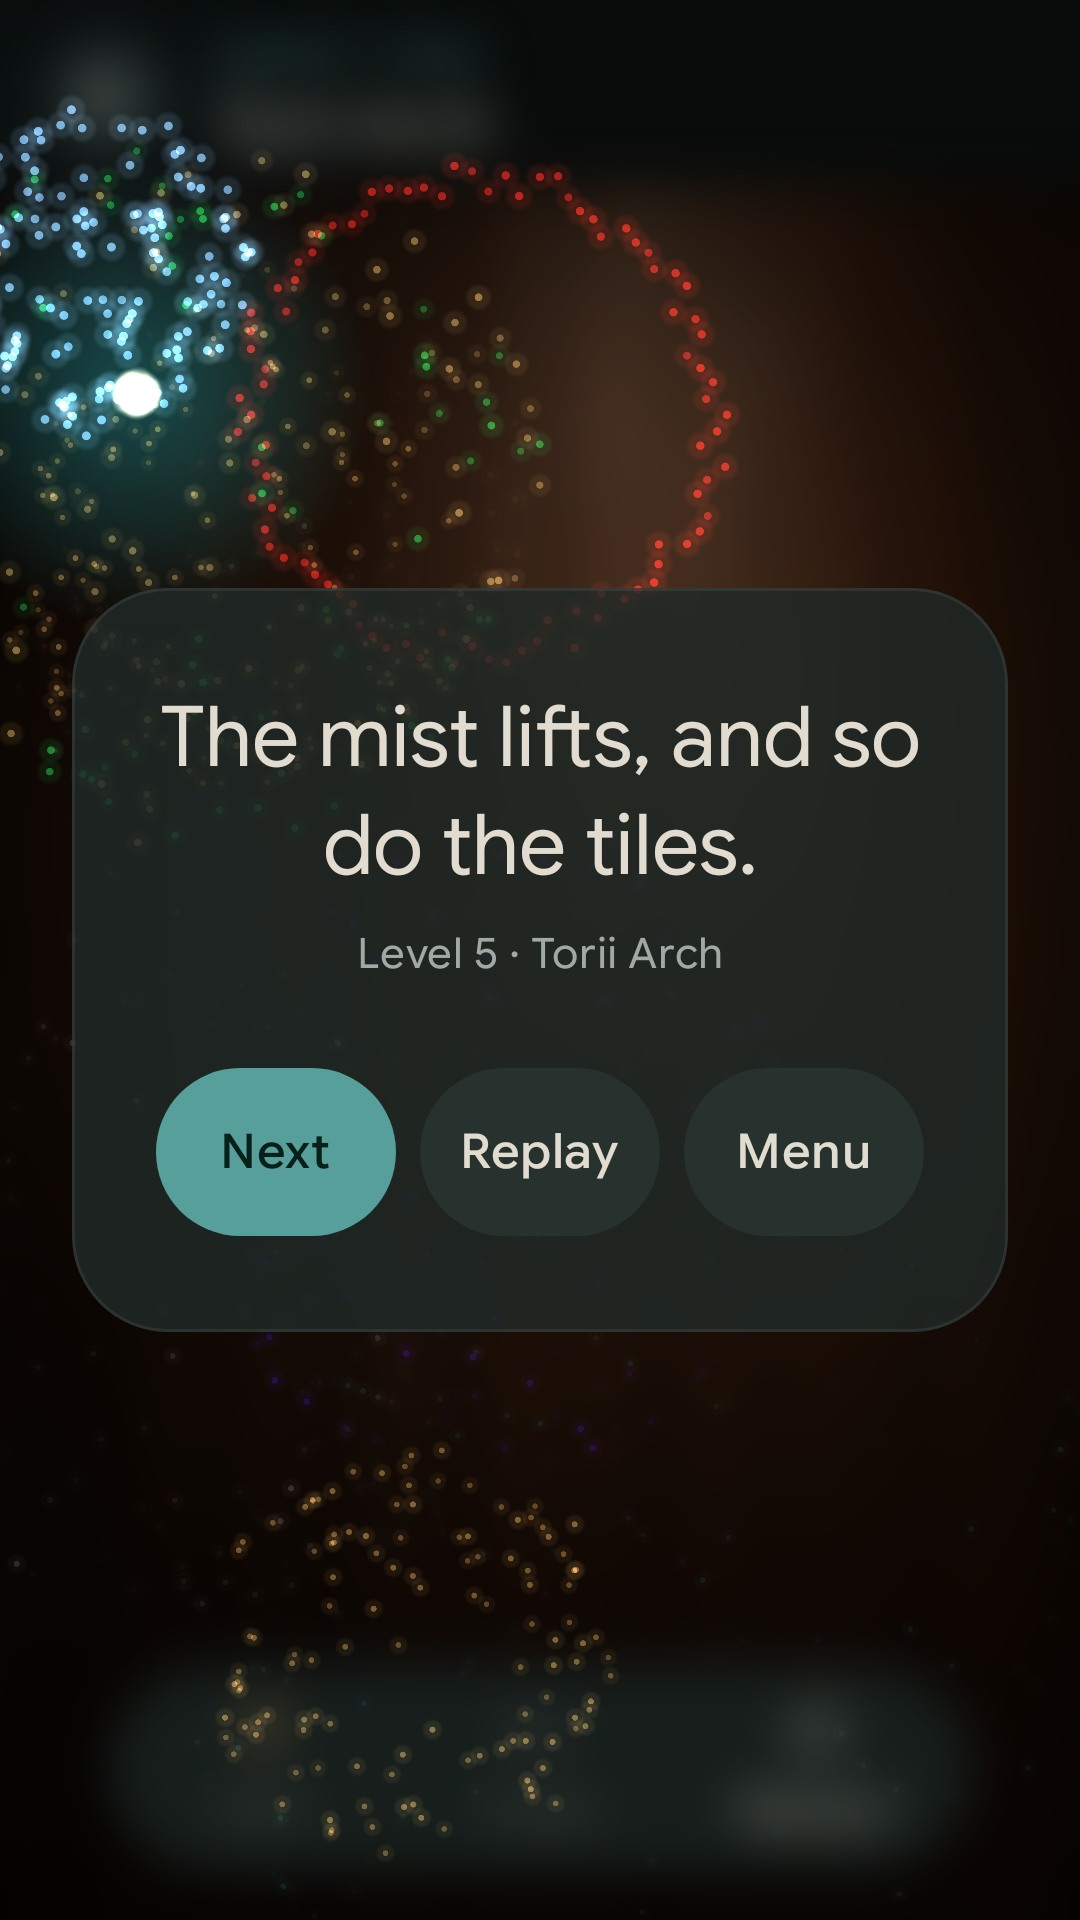
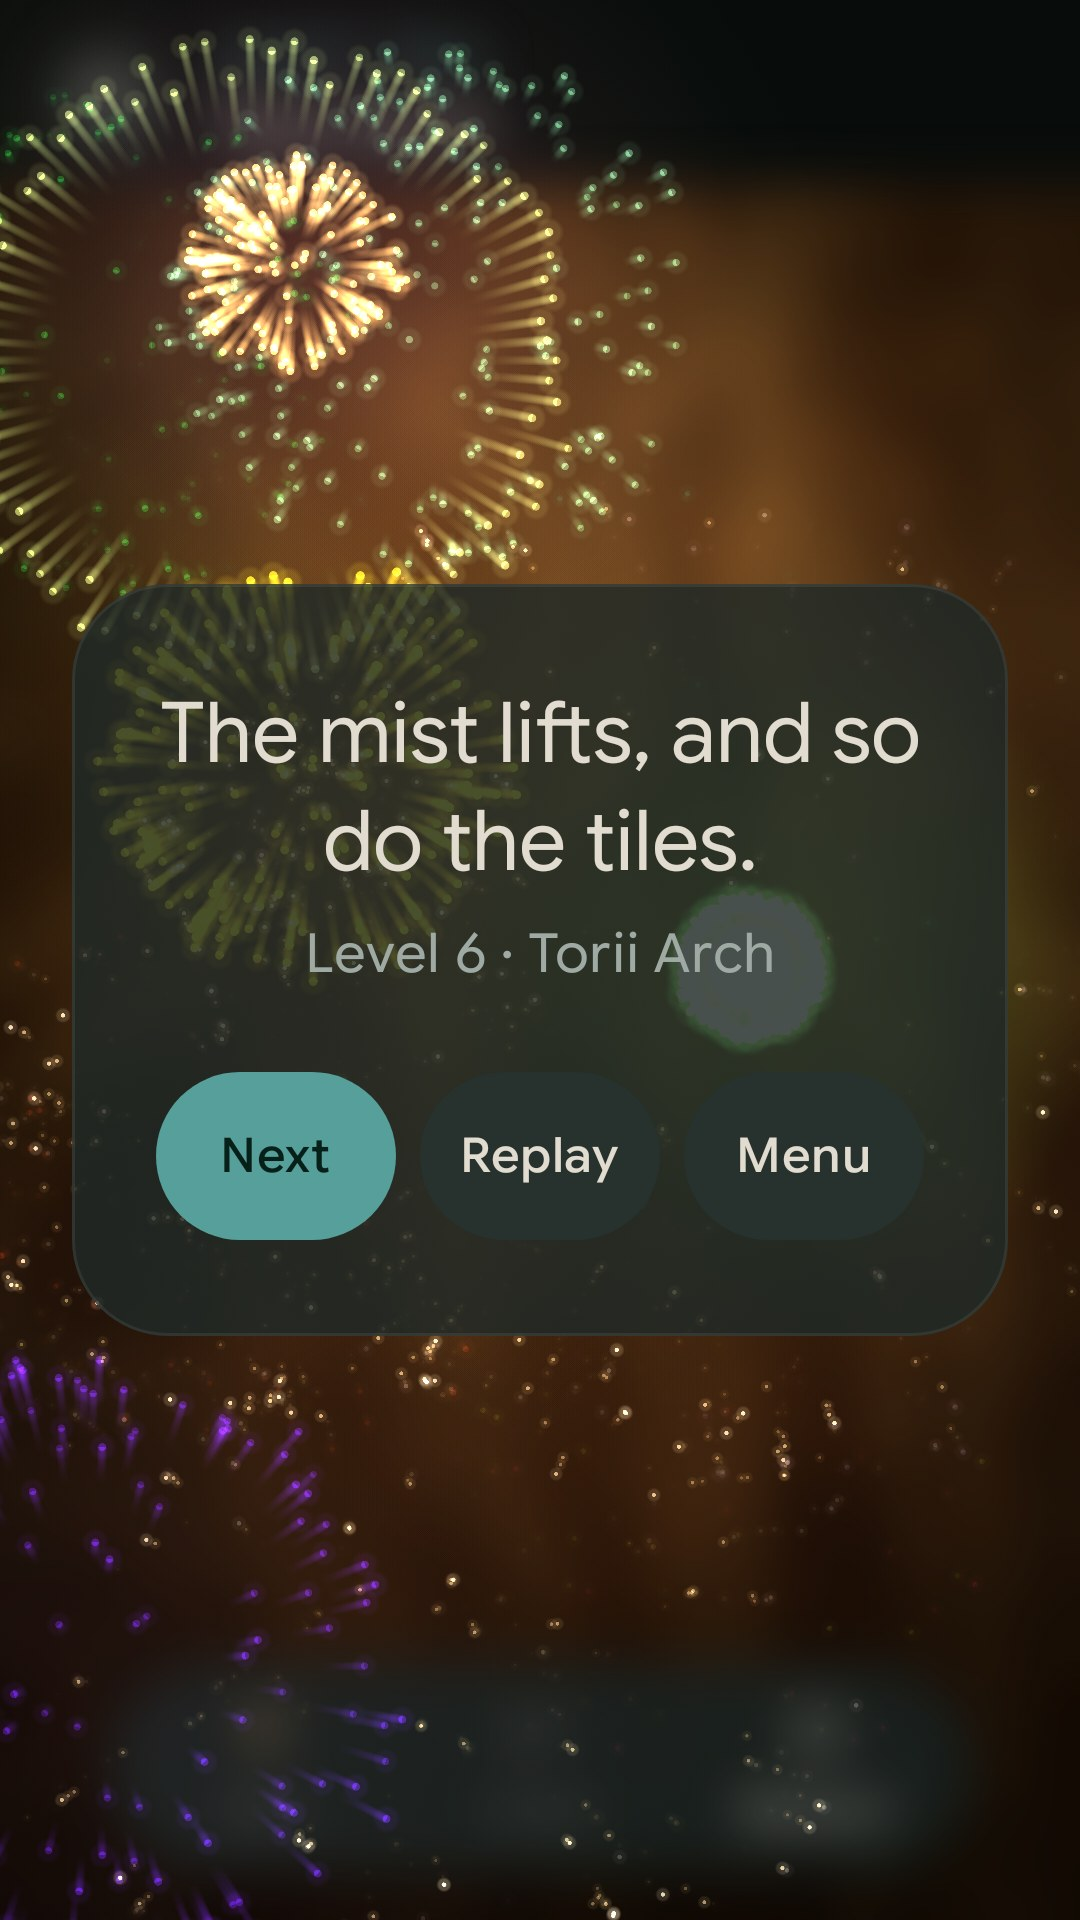
Screenshots from 1.4.19
The six store and README screenshots, rendered again from the current
code: the elm wood table, the title's Journey and Quick Game, the newer
fireworks and the Journey list. Captions say elm wood, green felt and
the Journey.

diff --git a/README.md b/README.md
@@ -9,13 +9,13 @@ Dark Mahjong is a fork of **[Mahjong Solitaire by PcmciaKai](https://github.com/
 
 <p align="center">
   <img src="fastlane/metadata/android/en-US/images/phoneScreenshots/1.jpg" width="240" alt="Title screen: misty mountains, the name seal and a plain text menu"/>
-  <img src="fastlane/metadata/android/en-US/images/phoneScreenshots/2.jpg" width="240" alt="A board on the walnut table"/>
+  <img src="fastlane/metadata/android/en-US/images/phoneScreenshots/2.jpg" width="240" alt="A board on the elm wood table"/>
   <img src="fastlane/metadata/android/en-US/images/phoneScreenshots/3.jpg" width="240" alt="Zoomed in on a board on the Thai straw mat"/>
 </p>
 <p align="center">
-  <img src="fastlane/metadata/android/en-US/images/phoneScreenshots/4.jpg" width="240" alt="A board on the green mat"/>
+  <img src="fastlane/metadata/android/en-US/images/phoneScreenshots/4.jpg" width="240" alt="A board on the green felt"/>
   <img src="fastlane/metadata/android/en-US/images/phoneScreenshots/5.jpg" width="240" alt="Winning: fireworks seen from above and a warm message"/>
-  <img src="fastlane/metadata/android/en-US/images/phoneScreenshots/6.jpg" width="240" alt="The levels list, easy to hard, on dark slate"/>
+  <img src="fastlane/metadata/android/en-US/images/phoneScreenshots/6.jpg" width="240" alt="The Journey's levels, easy to hard, on dark slate"/>
 </p>
 
 ## Ad-free, offline and open, for good
